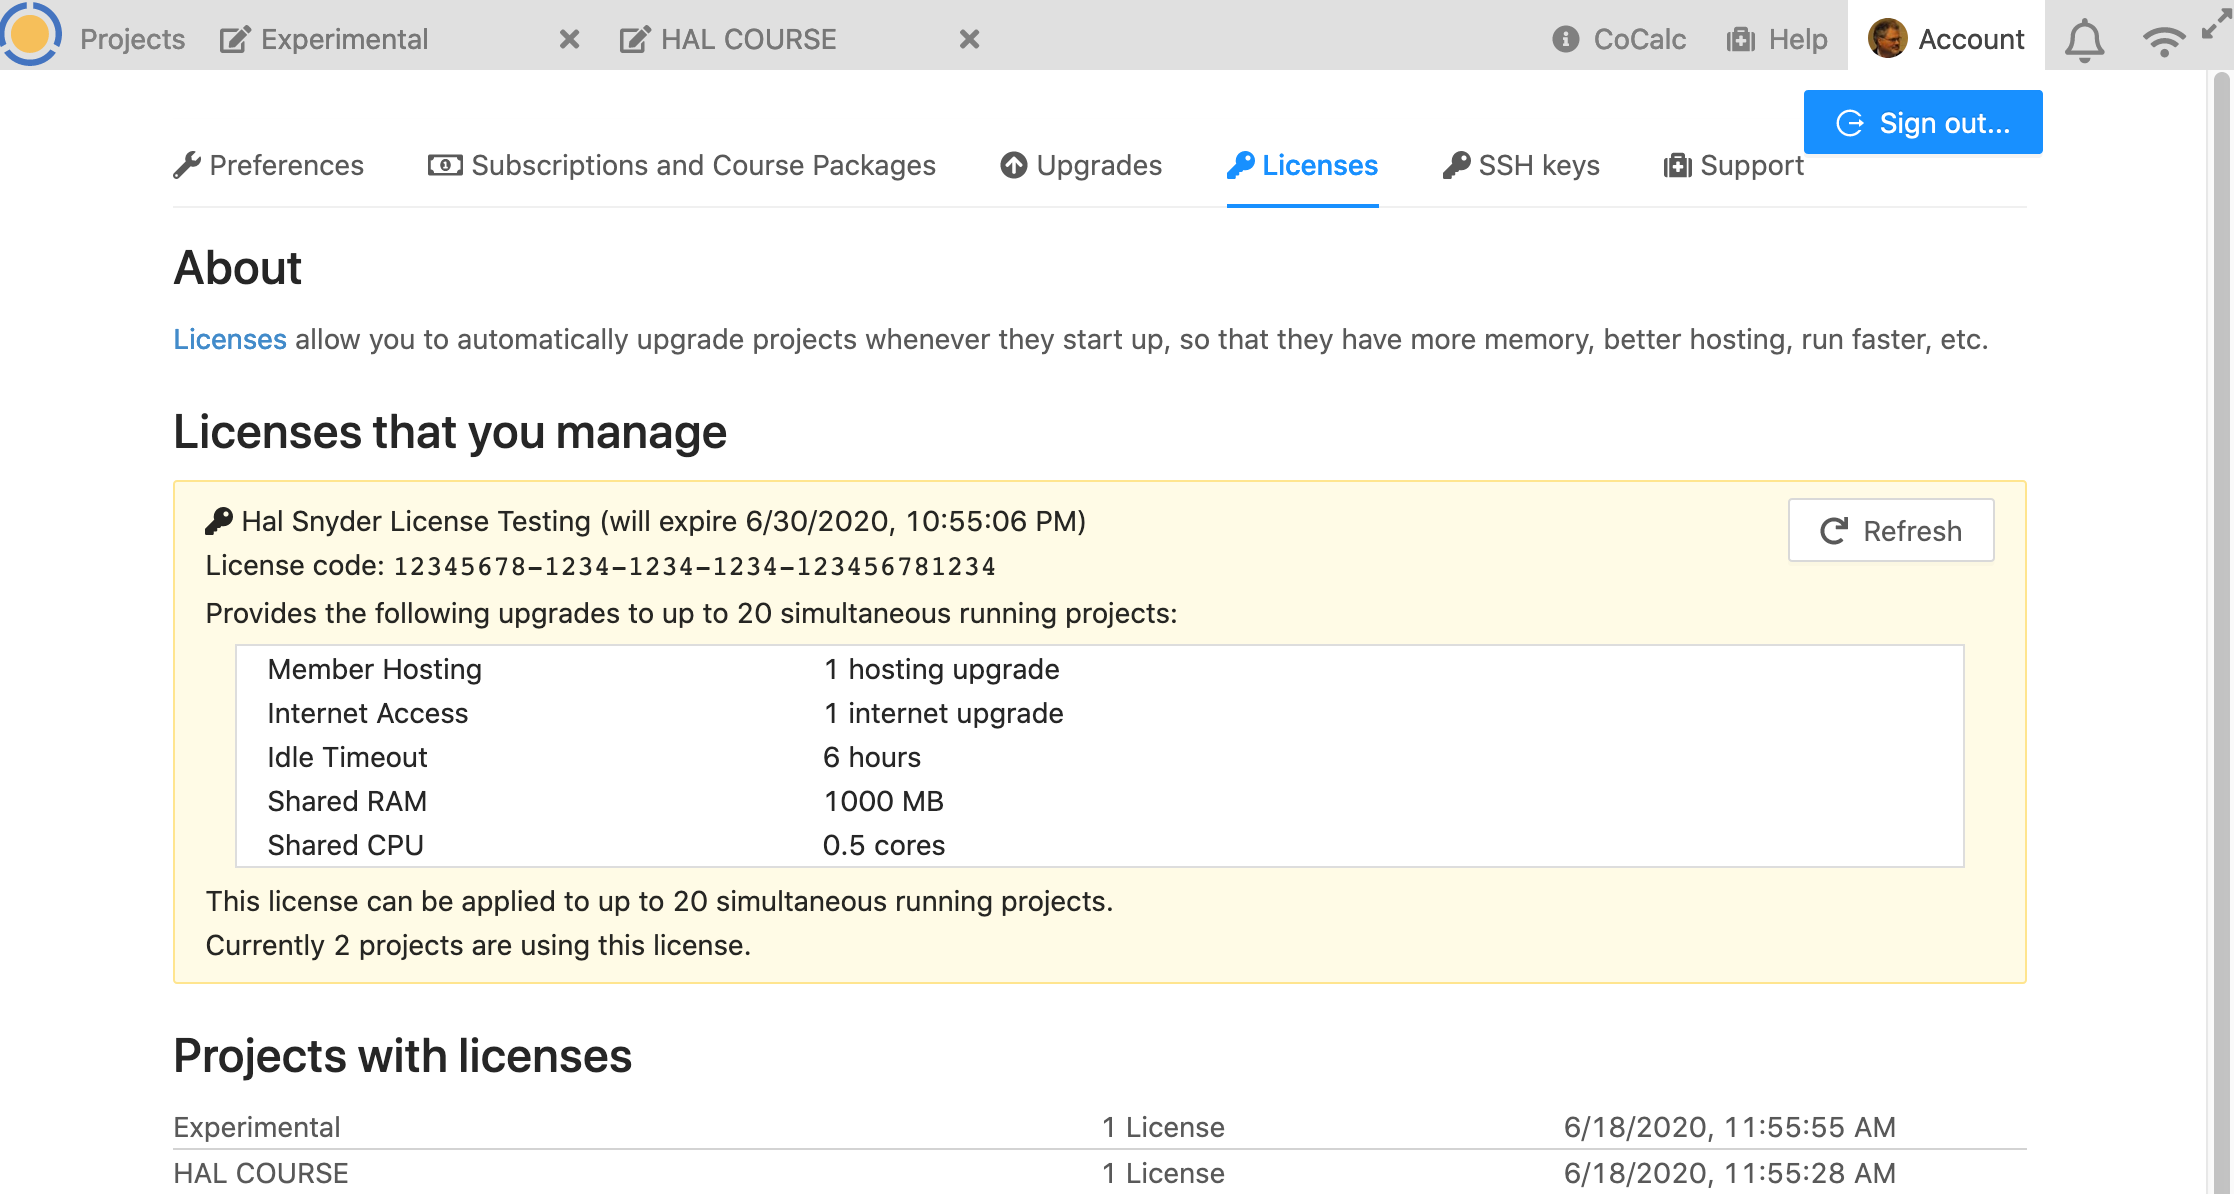
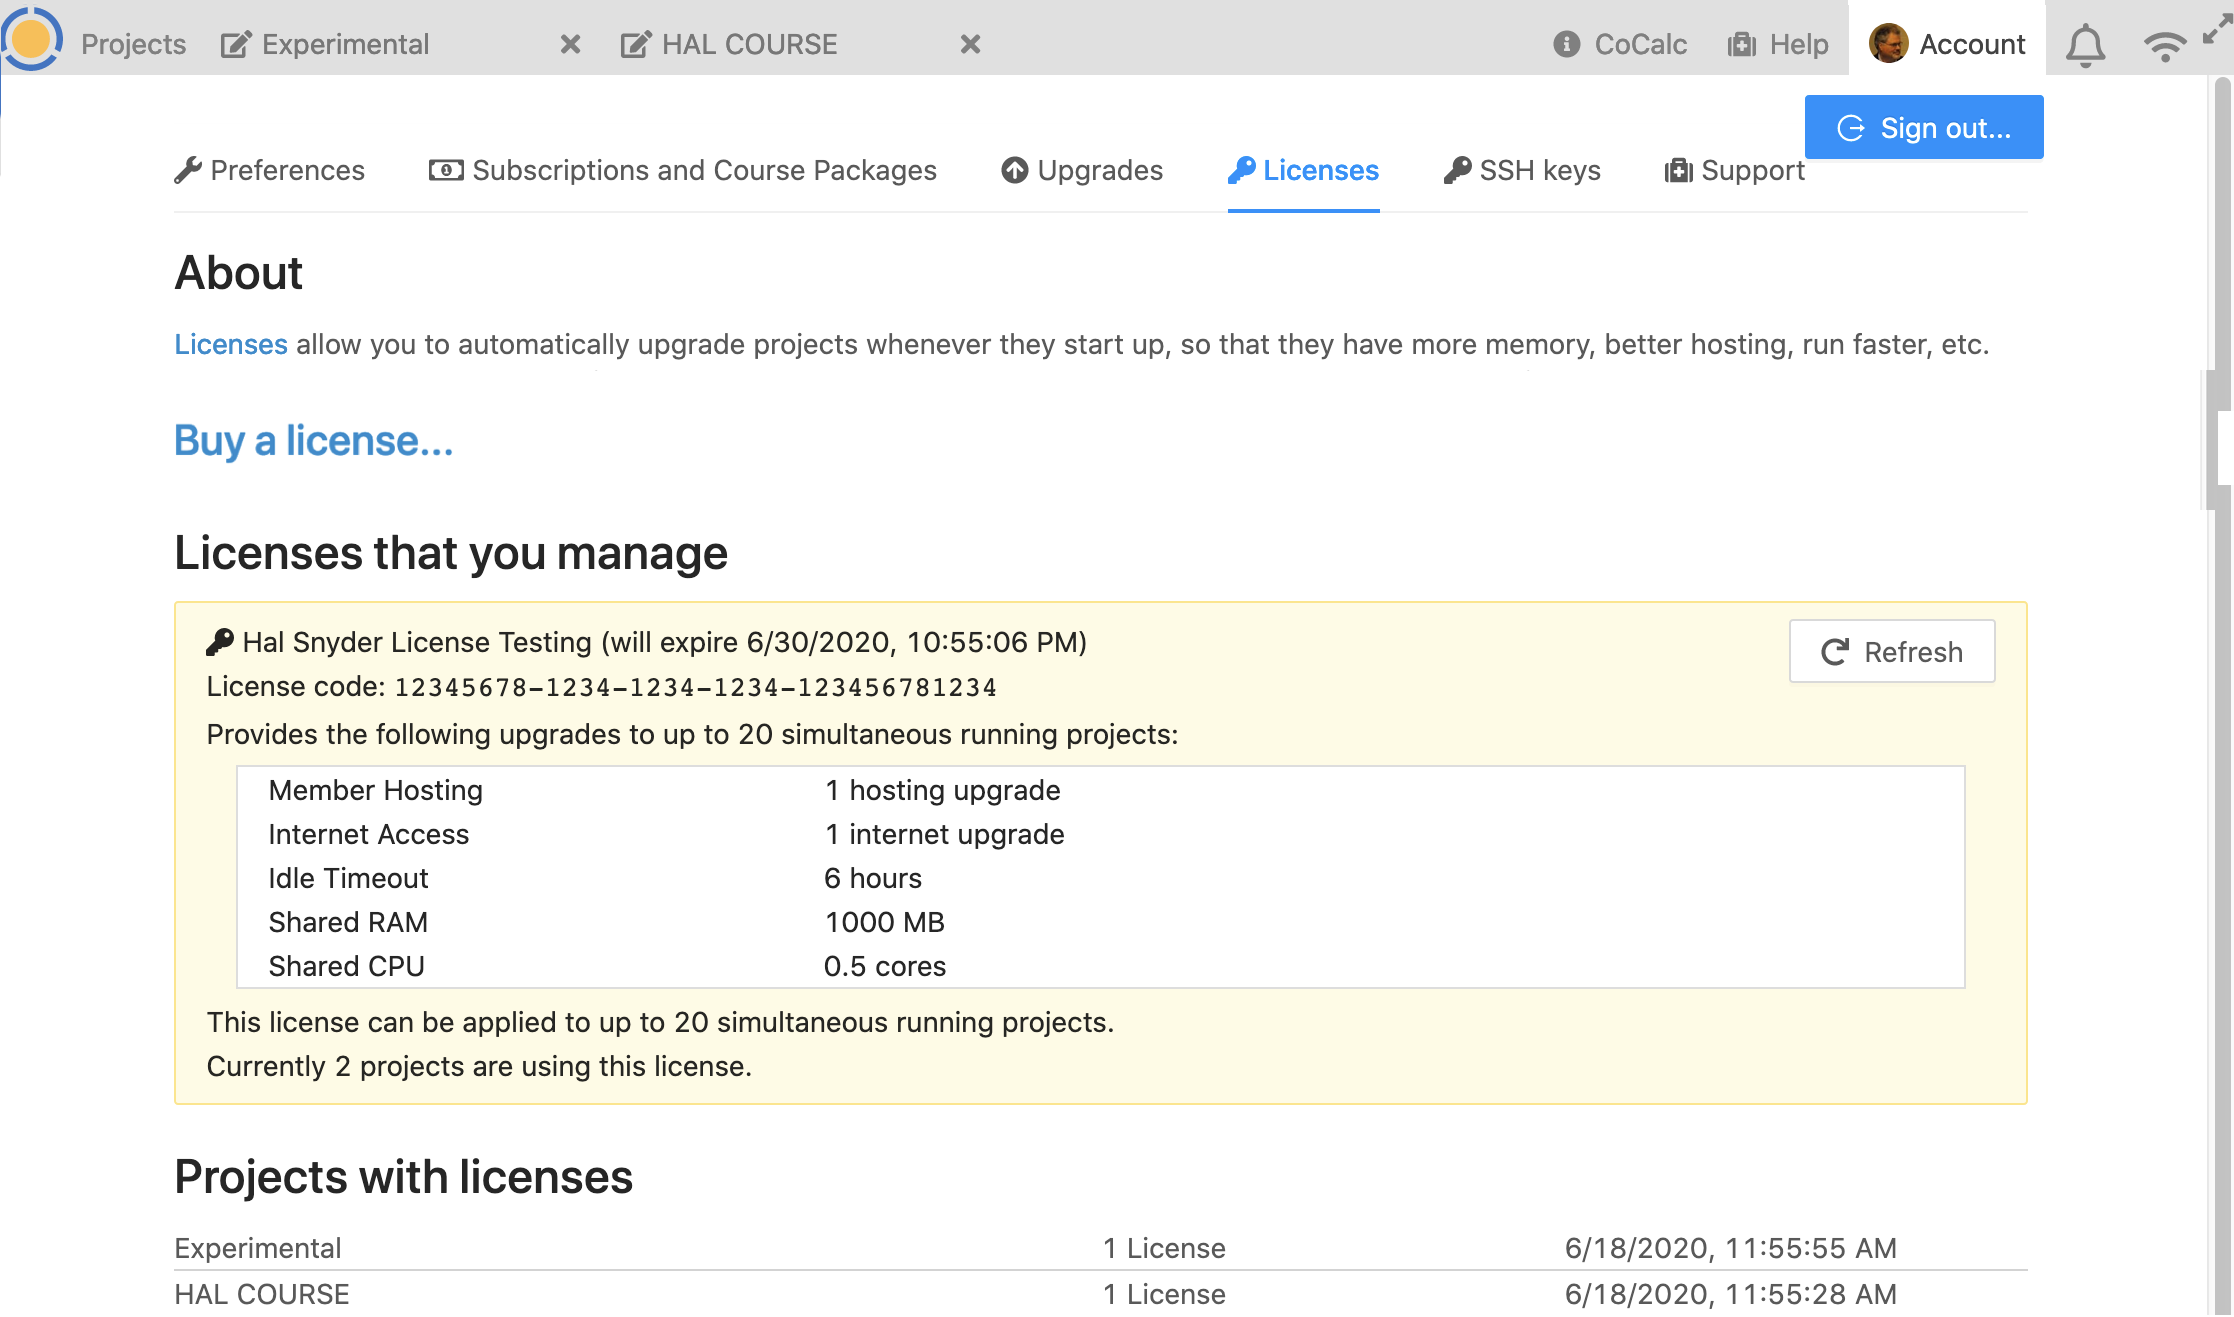
minimal buy license topics

diff --git a/source/account-settings.rst b/source/account-settings.rst
@@ -34,7 +34,7 @@ Preferences
 .. index:: Account Tab; Account settings
 
 Account settings
-----------------
+================
 
 .. figure:: img/account-settings/account-settings.png
      :width: 80%
@@ -69,7 +69,7 @@ Most of the entries under ``Account settings`` are self-explanatory. Here are a 
 .. _other-settings:
 
 Other settings
-----------------
+=================
 
 .. image:: img/account-settings/prefs-other.png
      :width: 80%
@@ -112,12 +112,12 @@ You can alter the standby timeout under Account / Preferences / Other / Standby 
 
 
 Profile
-----------------
+=================
 
 .. index:: Account Tab; Editor settings
 
 Editor settings
-----------------
+=================
 
 .. figure:: img/account-settings/editor-settings-0-top.png
      :width: 80%
@@ -140,7 +140,7 @@ Most options under "Editor settings" are self-explanatory. Here are additional d
 * Enable ``Jupyter classic`` if you have a specific requirement for a Jupyter feature that isn't available under CoCalc Jupyter. With this box checked, the default for opening .ipynb files in the CoCalc interface will be Classic jupyter. See warnings regarding :ref:`jupyter-classical-vs-cocalc` notebooks before enabling this feature.
 
 Terminal settings
--------------------
+===================
 
 .. index:: Account Tab; subscriptions and course packages
 .. _subs-course-pkgs:
@@ -165,7 +165,7 @@ Subscriptions and Course Packages
 .. _payment-methods:
 
 Payment methods
-----------------
+====================
 
 This is where you can enter credit card information for the CoCalc account.
 Credit card details (full credit card number, expiration date, CVV number) are maintained by our payment provider and are not stored on CoCalc servers or visible to the CoCalc support team.
@@ -174,7 +174,7 @@ Credit card details (full credit card number, expiration date, CVV number) are m
 .. _subscription-list:
 
 Subscriptions and course packages
-----------------------------------
+===================================
 
 This section lists your currently active subscriptions. The word "Active" denotes ordinary active subscriptions.
 The word "Trialing" indicates a free trial or other custom subscription plan.
@@ -203,7 +203,7 @@ The subscription will not be auto-renewed at the next renewal date and the expir
 
 
 Invoices and receipts
-----------------------
+=====================
 
 The "Invoices and receipts" section shows a list of CoCalc purchases made using the order process on this page.
 
@@ -228,12 +228,12 @@ Upgrades
 ========
 
 All upgrades
---------------
+=================
 
 ``Upgrades that you get from your subscriptions and course packages``
 
 Applied upgrades
------------------
+=================
 
 ``Upgrades you have applied to projects``
 
@@ -252,14 +252,57 @@ Under "Licenses", you can keep track of CoCalc licenses you manage or use in you
 
      ..
 
+.. index:: Licenses: buying
+
+Buy a license...
+========================
+
+Clicking "Buy a license..." opens a form that lets you configure a CoCalc license, and buy it immediately online if you wish.
+
+.. index:: Licenses: academic discount
+
+Academic discount (if applicable)
+---------------------------------
+
+When you first open the license dialog, there is a single choice, whether you qualify for an academic discount (this includes hobbyists), or not.
+
+.. figure:: img/account-settings/buy-lic-1.png
+     :width: 90%
+     :align: center
+
+     ..
+
+.. index:: Licenses: quantity and type
+
+Quantity and Type
+-----------------
+
+.. figure:: img/account-settings/buy-lic-2.png
+     :width: 90%
+     :align: center
+
+     ..
+
+.. index:: Licenses: period, title, cost, purchase
+
+Period, Title, Cost, and Purchase
+---------------------------------
+
+.. figure:: img/account-settings/buy-lic-3.png
+     :width: 90%
+     :align: center
+
+     ..
+
+
 Licenses that you manage
-------------------------
+========================
 
 If you are a manager for one or more CoCalc licenses, you will see those licenses listed in this section. To have license managers added or removed, contact CoCalc support at help@cocalc.com. License managers must have a CoCalc account with an email address.
 
 
 Projects with licenses
-----------------------
+========================
 
 If you are an owner or collaborator on any projects that are CoCalc licenses, those projects are listed in this section.
 
@@ -285,12 +328,12 @@ Click Add SSH Key. Your key is now saved for that account and will work for all 
 As with the previous section, the user@hostname string needed for the ssh command consists of the project id with hyphens removed for the user, and 'ssh.cocalc.com' for the hostname, and can be found just below the caption Use the following username@host: in the 'SSH Keys' section of project status tab.
 
 SSH keys
----------
+=========
 
 ``SSH keys``
 
 Add an SSH key
-----------------
+================
 
 .. index:: Account Tab; support
 .. index::
@@ -303,7 +346,7 @@ Support
 ========
 
 Support tickets
-----------------
+================
 
 .. figure:: img/account-settings/account-tickets.png
      :width: 90%
